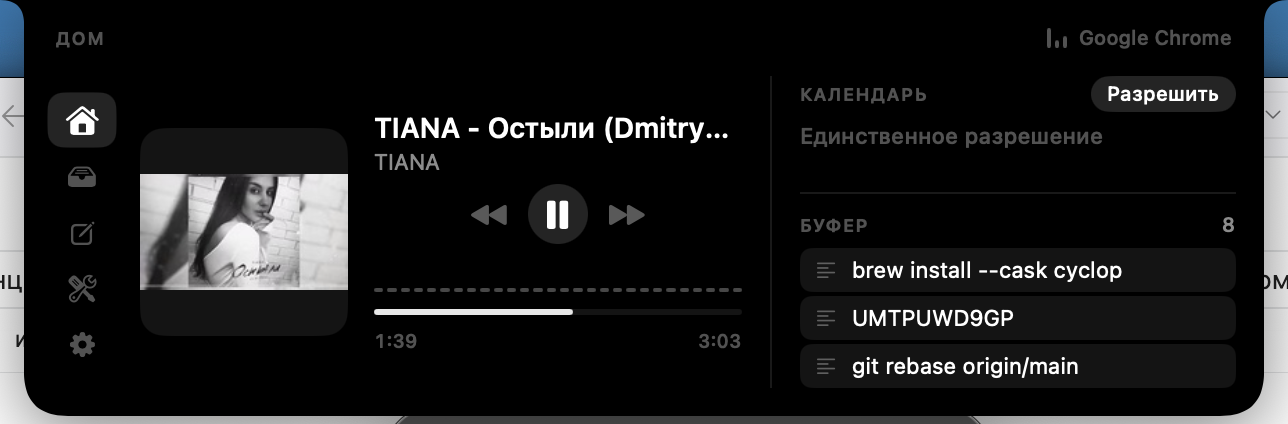
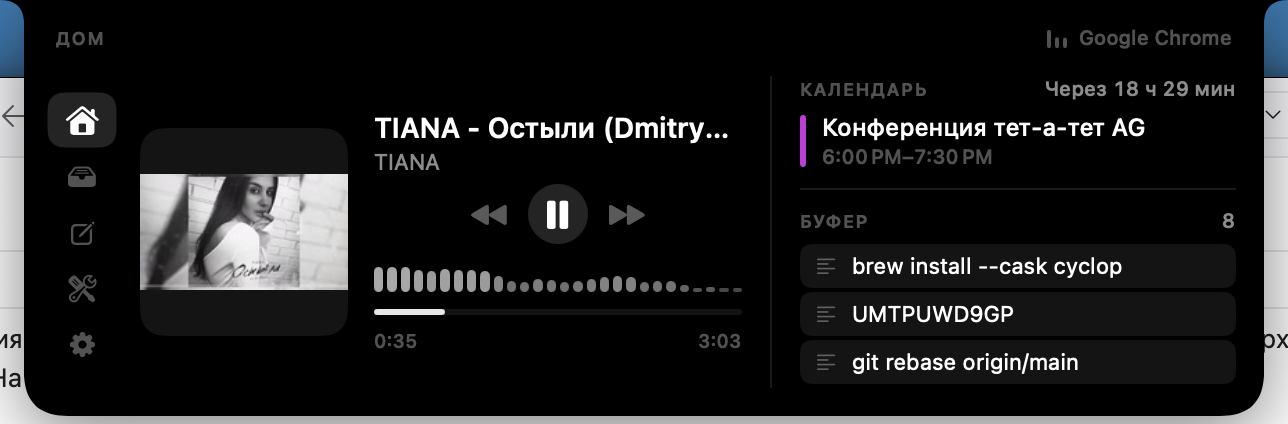
Снимок Дома с живым спектром и встречей
Прошлый кадр снят сразу после пересборки, а пересборка сбрасывает
разрешения: bundle.sh подписывает бандл заново, TCC привязывает выданный
доступ к подписи, и для системы это другое приложение. На снимке
получились пустой спектр и календарь, снова просящий доступ.

Та же причина записана в README как предупреждение для тех, кто будет
собирать бету: после каждой пересборки разрешения придётся выдавать
заново.

diff --git a/README.ru.md b/README.ru.md
@@ -57,6 +57,13 @@ open build/Cyclop.app
 Вернуться на стабильную — скачать образ из релизов и заменить приложение.
 Настройки лежат в `~/Library/Application Support/Cyclop` и переживают замену.
 
+> [!NOTE]
+> **После каждой пересборки разрешения слетают.** `Scripts/bundle.sh` подписывает
+> бандл заново, а macOS привязывает выданные разрешения к подписи — для системы
+> это каждый раз новое приложение. Доступ к Календарю и к записи звука придётся
+> выдавать снова. Это не поломка беты, а следствие сборки из исходников без
+> сертификата Developer ID.
+
 ---
 
 # Cyclop

diff --git a/README.md b/README.md
@@ -57,6 +57,13 @@ open build/Cyclop.app
 To go back to stable, download a disk image from the releases and replace the
 app. Settings live in `~/Library/Application Support/Cyclop` and survive it.
 
+> [!NOTE]
+> **Permissions are lost on every rebuild.** `Scripts/bundle.sh` signs the bundle
+> anew, and macOS ties granted permissions to the signature — to the system this
+> is a different app every time. Calendar and audio recording access have to be
+> granted again. This is not a beta bug but a consequence of building from source
+> without a Developer ID certificate.
+
 ---
 
 # Cyclop
